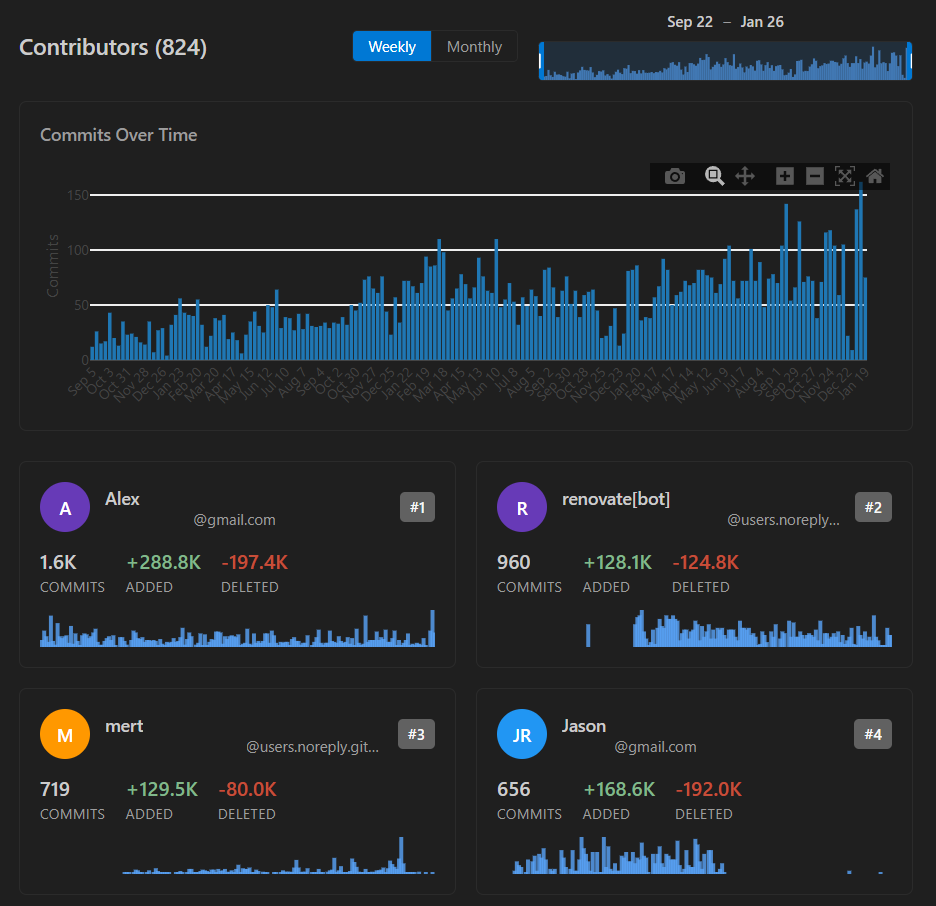
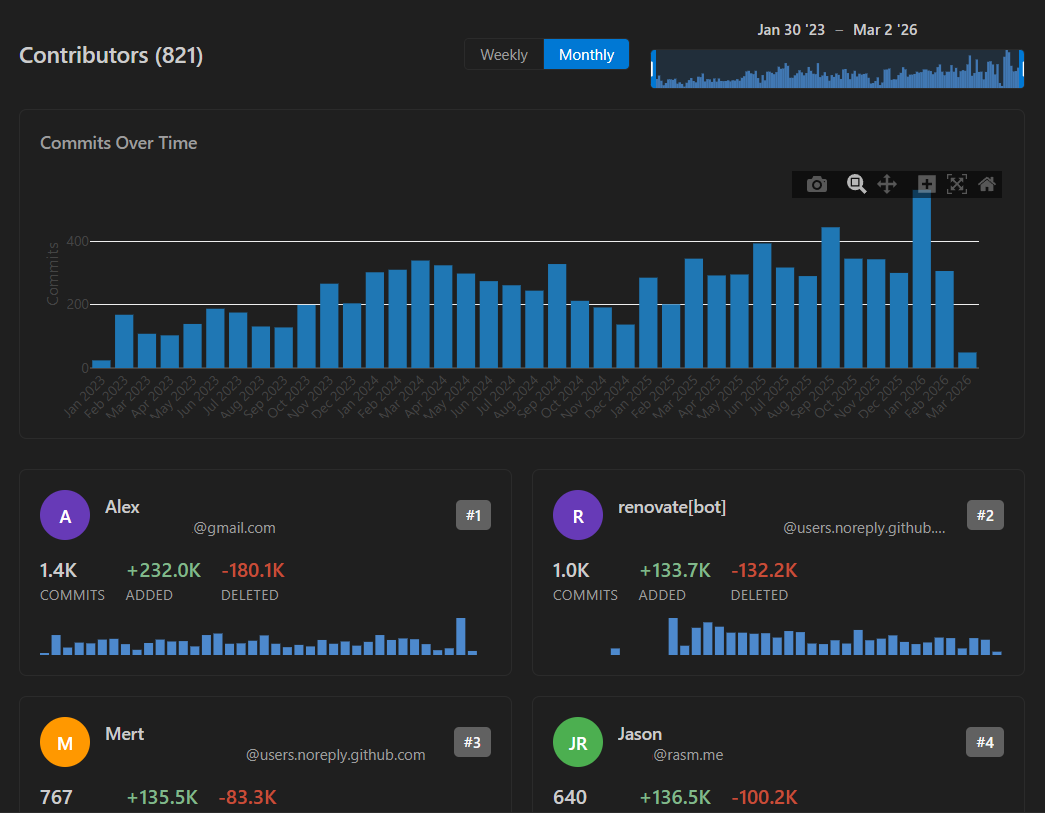
docs(readme): refresh screenshots and docs

diff --git a/README.md b/README.md
@@ -28,14 +28,24 @@ Results are cached based on the current Git HEAD, so subsequent opens are instan
       <br/><em>Overview Dashboard</em>
     </td>
     <td width="50%">
-      <img src="media/screenshot-contributors.png" alt="Contributors"/>
-      <br/><em>Contributors Panel</em>
+      <img src="media/screenshot-files.png" alt="Files Panel"/>
+      <br/><em>Files Panel</em>
     </td>
   </tr>
   <tr>
     <td width="50%">
+      <img src="media/screenshot-contributors.png" alt="Contributors"/>
+      <br/><em>Contributors Panel</em>
+    </td>
+    <td width="50%">
       <img src="media/screenshot-frequency.png" alt="Code Frequency"/>
       <br/><em>Code Frequency</em>
+    </td>
+  </tr>
+  <tr>
+    <td width="50%">
+      <img src="media/screenshot-evolution.png" alt="Evolution"/>
+      <br/><em>Evolution Analysis</em>
     </td>
     <td width="50%">
       <img src="media/screenshot-treemap.png" alt="Treemap"/>
@@ -82,12 +92,11 @@ Results are cached based on the current Git HEAD, so subsequent opens are instan
 - **Chart suite**: Stacked ownership view, line trends, and latest distribution
 - **On-demand execution** with dedicated cache, stale-state detection, and recompute button
 - **Performance controls**: Snapshot interval, max snapshots, cohort format, and max displayed series
-- _Evolution screenshot coming soon_
 
 ### Repository Treemap
 
 - **WizTree-inspired design** with nested hierarchy and vignette shading
-- **Color modes**: By language (GitHub Linguist colors) or by file age (heat map)
+- **Color modes**: By language (GitHub Linguist colors), file age, complexity, or code density
 - **Size modes**: Lines of code, file size in bytes, or file count
 - **Adjustable nesting depth** (1-10 levels)
 - **Smart filtering**: Presets for All, No Binary, Code Only, or custom language selection
@@ -96,7 +105,7 @@ Results are cached based on the current Git HEAD, so subsequent opens are instan
 
 ### Settings Panel
 
-Configure exclude patterns, submodule inclusion for file analysis, generated file patterns, binary extensions, max commits to analyze, and default color mode.
+Configure analysis scope, chart granularity, overview display mode, treemap tooltip fields, generated file patterns, binary extensions, submodule inclusion, and Evolution sampling controls.
 
 ## Installation
 
@@ -130,21 +139,25 @@ This extension uses [scc](https://github.com/boyter/scc) for accurate lines-of-c
 
 ## Extension Settings
 
-| Setting                          | Default      | Description                                         |
-| -------------------------------- | ------------ | --------------------------------------------------- |
-| `repoStats.excludePatterns`      | `[]`         | Additional directories to exclude beyond .gitignore |
-| `repoStats.maxCommitsToAnalyze`  | `10000`      | Maximum commits to analyze (for performance)        |
-| `repoStats.defaultColorMode`     | `"language"` | Default treemap color mode (`language` or `age`)    |
-| `repoStats.showEmptyTimePeriods` | `true`       | Show weeks/months with no activity in charts        |
-| `repoStats.generatedPatterns`    | See below    | Glob patterns to identify generated files           |
-| `repoStats.binaryExtensions`     | See below    | File extensions considered binary for classification and binary-focused views |
-| `repoStats.locExcludedExtensions`| `[]`         | File extensions excluded from LOC counting          |
-| `repoStats.includeSubmodules`    | `false`      | Include submodule files in file analysis (Overview + Files + Treemap) |
-| `repoStats.evolution.autoRun`    | `false`      | Auto-run evolution analysis when data is stale/missing |
-| `repoStats.evolution.snapshotIntervalDays` | `30` | Days between analyzed evolution snapshots           |
-| `repoStats.evolution.maxSnapshots` | `80`       | Maximum historical snapshots in evolution analysis  |
-| `repoStats.evolution.maxSeries`  | `20`         | Default max visible series in evolution charts      |
-| `repoStats.evolution.cohortFormat` | `"%Y"`    | Cohort grouping format (`%Y`, `%Y-%m`, `%Y-W%W`)    |
+| Setting | Default | Description |
+| --- | --- | --- |
+| `repoStats.excludePatterns` | `[]` | Additional directories to exclude beyond `.gitignore` |
+| `repoStats.maxCommitsToAnalyze` | `10000` | Maximum commits to analyze for history-based views |
+| `repoStats.defaultColorMode` | `"language"` | Default treemap color mode (`language`, `age`, `complexity`, or `density`) |
+| `repoStats.showEmptyTimePeriods` | `true` | Show weeks/months with no activity in charts |
+| `repoStats.defaultGranularityMode` | `"auto"` | Default chart granularity (`auto`, `weekly`, or `monthly`) |
+| `repoStats.autoGranularityThreshold` | `20` | Weekly/monthly cutoff used when granularity is `auto` |
+| `repoStats.overviewDisplayMode` | `"percent"` | Display overview values as percentages or counts |
+| `repoStats.generatedPatterns` | See below | Glob patterns used to identify generated files |
+| `repoStats.binaryExtensions` | See below | File extensions treated as binary |
+| `repoStats.locExcludedExtensions` | `[]` | File extensions excluded from LOC counting |
+| `repoStats.includeSubmodules` | `false` | Include submodule files in Overview, Files, and Treemap |
+| `repoStats.tooltipSettings` | See `package.json` | Configure which metrics appear in treemap tooltips |
+| `repoStats.evolution.autoRun` | `false` | Auto-run evolution analysis when data is stale or missing |
+| `repoStats.evolution.snapshotIntervalDays` | `30` | Days between sampled evolution snapshots |
+| `repoStats.evolution.maxSnapshots` | `80` | Maximum historical snapshots analyzed in Evolution |
+| `repoStats.evolution.maxSeries` | `20` | Default maximum visible series in Evolution charts |
+| `repoStats.evolution.cohortFormat` | `"%Y"` | Cohort grouping format (`%Y`, `%Y-%m`, `%Y-W%W`) |
 
 Tip: If assets like `.svg` files inflate LOC totals for your project, add `.svg` to `repoStats.locExcludedExtensions`.
 
@@ -214,22 +227,6 @@ npm run watch
 npm run test
 npm run package
 ```
-
-## Release Notes
-
-### 1.0.0
-
-**First stable release!**
-
-- **Show Empty Time Periods**: Charts now display weeks/months with no activity by default, showing the true timeline with gaps. Toggle in Settings to hide empty periods.
-- **Improved Chart Zoom**: Removed ability to zoom out beyond 100% for better UX
-- **Full feature set**: Overview, Contributors, Code Frequency, Treemap, and Settings panels
-- **Auto-download scc**: Binary automatically downloaded if not in PATH
-- **Smart caching**: Results cached by Git HEAD SHA
-
-### 0.0.1
-
-Initial release with Overview, Contributors, Code Frequency, Treemap, and Settings panels.
 
 ## License
 
